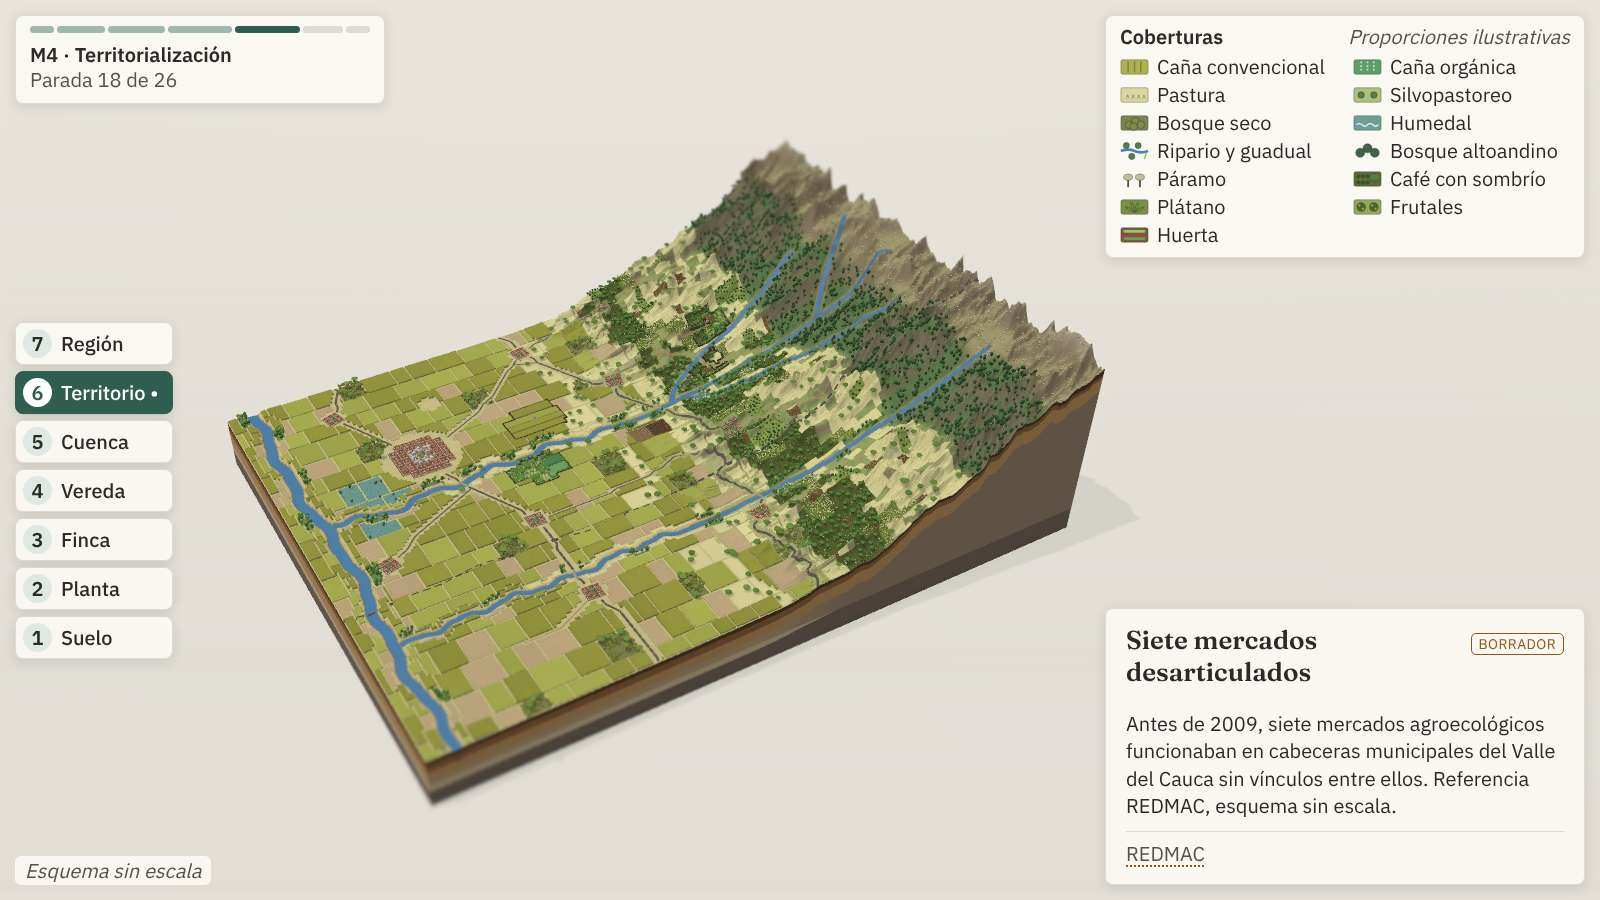
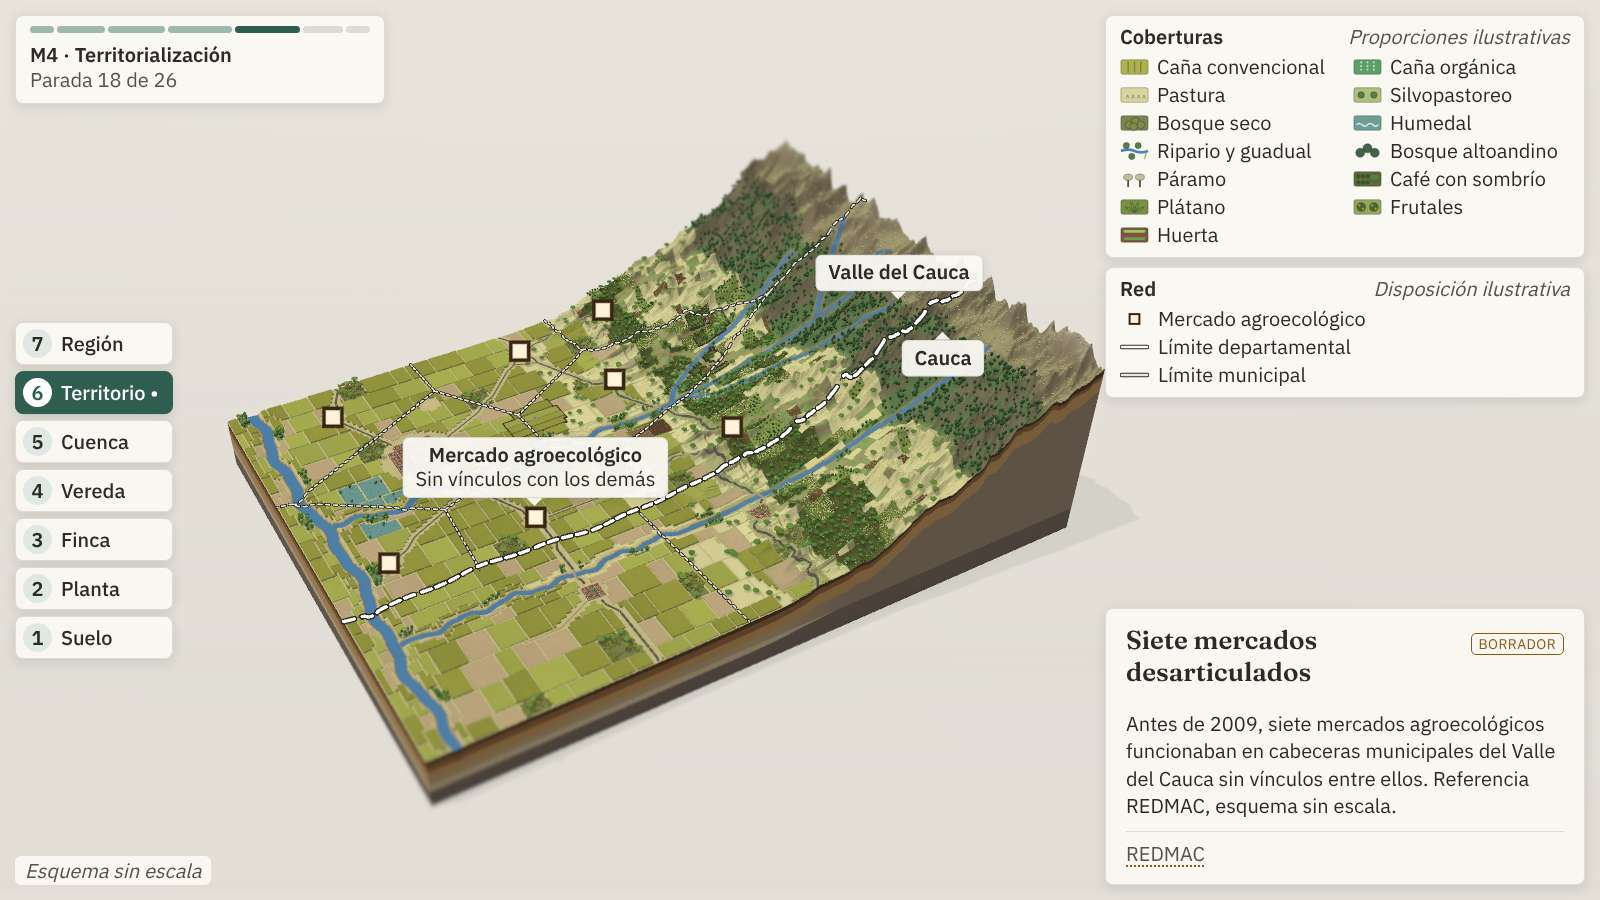
Etapa 9.a: cierre con la verificación correcta, capturas de la red de actores e informe
Claude-Session: https://claude.ai/code/session_01UGZzA8Y7dfPqKqxnyKzmWp

diff --git a/verificacion/informe.md b/verificacion/informe.md
@@ -1,13 +1,13 @@
 # Informe de verificación
 
-- Fecha: 2026-11-15T13:48:59.857Z
+- Fecha: 2026-11-15T14:29:58.785Z
 - Navegador: Chromium 153.0.8010.12
 - Resultado: correcto
 
 ## Vista compilada (servidor de vista previa)
 
 - Dirección: `http://localhost:4317/`
-- Carga: sí, 3059 ms hasta `escenario:listo`
+- Carga: sí, 3010 ms hasta `escenario:listo`
 - Errores de consola: ninguno
 - Solicitudes: 9 en total; externas: ninguna
 - Cuadros por segundo en la vista general: 0.7 (navegador sin pantalla; referencia, no equivale al equipo de la prueba)
@@ -16,16 +16,16 @@
 - Tipografías cargadas (caras): IBM Plex Sans 3/3; Fraunces 2/2
 - Captura: `capturas/general.png` (1600×900)
 - Avisos de consola (no bloquean):
-  - [.WebGL-0x76c00188800]GL Driver Message (OpenGL, Performance, GL_CLOSE_PATH_NV, High): GPU stall due to ReadPixels
-  - [.WebGL-0x76c00188800]GL Driver Message (OpenGL, Performance, GL_CLOSE_PATH_NV, High): GPU stall due to ReadPixels
-  - [.WebGL-0x76c00188800]GL Driver Message (OpenGL, Performance, GL_CLOSE_PATH_NV, High): GPU stall due to ReadPixels
-  - [.WebGL-0x76c00188800]GL Driver Message (OpenGL, Performance, GL_CLOSE_PATH_NV, High): GPU stall due to ReadPixels (this message will no longer repeat)
+  - [.WebGL-0x223c001a4800]GL Driver Message (OpenGL, Performance, GL_CLOSE_PATH_NV, High): GPU stall due to ReadPixels
+  - [.WebGL-0x223c001a4800]GL Driver Message (OpenGL, Performance, GL_CLOSE_PATH_NV, High): GPU stall due to ReadPixels
+  - [.WebGL-0x223c001a4800]GL Driver Message (OpenGL, Performance, GL_CLOSE_PATH_NV, High): GPU stall due to ReadPixels
+  - [.WebGL-0x223c001a4800]GL Driver Message (OpenGL, Performance, GL_CLOSE_PATH_NV, High): GPU stall due to ReadPixels (this message will no longer repeat)
 
 ## Archivo único (file://, sin servidor y sin red)
 
 - Dirección: `file:///home/user/escenario-territorial/dist-unico/index.html`
-- Carga: sí, 8241 ms hasta `escenario:listo`
-- Tamaño: 1072 kB
+- Carga: sí, 8369 ms hasta `escenario:listo`
+- Tamaño: 1089 kB
 - Errores de consola: ninguno
 - Solicitudes: 1 en total; externas: ninguna
 - Llamadas de dibujo: 39; triángulos: 1253518; relación de píxeles: 1
@@ -48,7 +48,7 @@
 
 ## Coberturas
 
-- Unidades: parcelas 863, orillas 178, celdas 290, reservas 12, lotes 25; teselas dibujadas: 1056 unidades, 299880 vértices; generación en 670 ms (unidades y vías 239, asignación 20, teselas 173, vegetación 75, mosaico 94, caña cercana 9)
+- Unidades: parcelas 863, orillas 178, celdas 290, reservas 12, lotes 25; teselas dibujadas: 1056 unidades, 299880 vértices; generación en 685 ms (unidades y vías 242, asignación 24, teselas 173, vegetación 77, mosaico 84, caña cercana 7)
 - Instancias: saman 890 (170 en S0); seco 2682 (734 en S0); ceiba 254 (70 en S0); ribereno 1901 (498 en S0); guadua 563 (147 en S0); andino 1879 (1879 en S0); helecho 420 (420 en S0); frailejon 1308 (1308 en S0); junco 1066 (250 en S0); guamo 519 (449 en S0); cafeto 8944 (7111 en S0); platano 2531 (1473 en S0); citrico 552 (174 en S0); mango 548 (169 en S0); era 1605 (522 en S0); maiz 2271 (733 en S0); leucaena 10412 (551 en S0)
 - S0: caña en el 85 % del plano (mínimo 60 %); relictos 8, aislados 7 (separación de 60 unidades o más), contiguos 0; separación mínima 53.1, mediana 97.2
 - Plano en S0: cana 0.845, ripario 0.018, bosque_seco 0.038, pastura 0.08, humedal 0.019
@@ -57,9 +57,9 @@
 - Plano en S3: cana_organica 0.328, ripario 0.101, bosque_seco 0.129, silvopastoril 0.208, cana 0.112, pastura 0.041, humedal 0.082
 - S1 conserva la extensión de la caña de S0: sí
 - Salto máximo de un elemento por cuadro a 60 cuadros por segundo: 0.0227 (máximo 0.05)
-- Transición a S1 (calidad liviana): 76 elementos; en curso sí; 3 cuadros (intervalo máximo 1.14 s); máximo de elementos a medio camino en un cuadro: 73; 2.09 s (declarada 2 s); final igual a la carga directa: sí; leyenda: 13 tipos
-- Transición a S3 (calidad liviana): 23797 elementos; en curso sí; 3 cuadros (intervalo máximo 1.41 s); máximo de elementos a medio camino en un cuadro: 20585; 2.76 s (declarada 2 s); final igual a la carga directa: sí; leyenda: 13 tipos
-- Transición a S2 (calidad liviana): 19355 elementos; en curso sí; 3 cuadros (intervalo máximo 1.43 s); máximo de elementos a medio camino en un cuadro: 14294; 2.87 s (declarada 2 s); final igual a la carga directa: sí; leyenda: 13 tipos
+- Transición a S1 (calidad liviana): 76 elementos; en curso sí; 3 cuadros (intervalo máximo 0.99 s); máximo de elementos a medio camino en un cuadro: 76; 2.92 s (declarada 2 s); final igual a la carga directa: sí; leyenda: 13 tipos
+- Transición a S3 (calidad liviana): 23797 elementos; en curso sí; 3 cuadros (intervalo máximo 1.51 s); máximo de elementos a medio camino en un cuadro: 19984; 2.88 s (declarada 2 s); final igual a la carga directa: sí; leyenda: 13 tipos
+- Transición a S2 (calidad liviana): 19355 elementos; en curso sí; 3 cuadros (intervalo máximo 1.39 s); máximo de elementos a medio camino en un cuadro: 15173; 2.77 s (declarada 2 s); final igual a la carga directa: sí; leyenda: 13 tipos
 - Leyenda en S0: cana, cana_organica, pastura, silvopastoril, bosque_seco, humedal, ripario, bosque_altoandino, paramo, cafe, platano, frutales, huerta
 - Calidad liviana: 17180 instancias dibujadas en la alta, 8594 en la liviana; restaurado sí
 - Llamadas de dibujo en la vista general: 39 (máximo 200); triángulos 1253518
@@ -146,6 +146,18 @@
 - Presupuesto gráfico, prácticas de conservación: 3300 triángulos (tope 50000) y 8 llamadas de dibujo; 40 partículas; reloj: avanza sí, repite sí
 - Capturas: `capturas/flujos-P08.jpg`, `capturas/flujos-P09-ladera.jpg`, `capturas/sintesis-P12.jpg`
 
+## Actores y red
+
+- Capas de la red apagadas en P01: sí
+- P18 (S0): 7 mercados (CAB1, CAB2, CAB3, CAB4, CAB5, CAB6, CAB7), sin capas de enlaces; con las capas de la red forzadas en S0: 0 enlaces de comercio, 0 de garantía y 0 vértices de polígono
+- P20 (S2): 9 mercados; comercio: 23 enlaces entre 22 nodos, 9 mercados en 1 red, 2 enlaces cruzan el límite departamental; garantía: 9 enlaces entre 13 nodos
+- Polígono de la red: 22 nodos (16 al norte y 6 al sur del límite departamental), 287 vértices (179 al norte y 108 al sur) y 2 cruces con el límite
+- Límites administrativos: 10 municipios esquemáticos (8 al norte y 2 al sur) y 16 lados de límite municipal
+- Rótulos: P18 valle, cauca, mercado_aislado (3 en escena); P20 valle, cauca, territorio_red, universidad, mercados_sur (5 en escena); máximo 7
+- Leyenda: P18 mercado, limite_departamental, limite_municipal; P20 mercado, comercio, familia, garantia, aliado, poligono, limite_departamental, limite_municipal («Disposición ilustrativa»)
+- Presupuesto gráfico por capa (tope 50000 triángulos): P18: limites_administrativos 14280 triángulos y 4 llamadas; mercados 0 triángulos y 1 llamadas. P20: limites_administrativos 14280 triángulos y 4 llamadas; poligono_red 18942 triángulos y 4 llamadas; red_mercados 7728 triángulos y 4 llamadas; spg 3024 triángulos y 5 llamadas; mercados 0 triángulos y 1 llamadas
+- Capturas: `capturas/actores-P18.jpg`, `capturas/actores-P20.jpg`
+
 ## Luz de diorama y legibilidad (1920×1080)
 
 - Efectos: oclusión ambiental sí, miniatura sí (intensidades 1 y 1; MSAA 4), viento sí (reloj quieto en la verificación: sí), sombra sí (PCF, radio 3, intensidad 0.85, mapa 2048)
@@ -172,7 +184,7 @@ Triángulos por cuadro con la cámara quieta (todas las pasadas; la sombra no se
 | Lote (P03, comunidad) | 5,3 M | 1,22 M (23 %) | 3 M | 39 | 1074 | 1222 (3516) | sí |
 | Suelo (P07) | 5,42 M | 1,84 M (34 %) | 3,5 M | 63 | 7359 | 6001 (10699) | sí |
 
-- Ritmo del dibujo: tope de 60 cuadros por segundo en movimiento y 30 con la cámara quieta y viento; con la cámara quieta y el viento detenido, 2 cuadros dibujados en 4,0 s (3 cuadros del navegador)
+- Ritmo del dibujo: tope de 60 cuadros por segundo en movimiento y 30 con la cámara quieta y viento; con la cámara quieta y el viento detenido, 2 cuadros dibujados en 3,9 s (3 cuadros del navegador)
 - Los cuadros por segundo reales se miden en el equipo de la prueba con la tecla R (sin tope mientras el medidor está visible).
 
 ## Calidad
@@ -203,10 +215,10 @@ Triángulos por cuadro con la cámara quieta, llamadas de dibujo y matas de cañ
 ## Ventana de 1920×1080 (vista compilada)
 
 - Dirección: `http://localhost:4317/#p=P01&captura=1`
-- Carga: sí, 8904 ms hasta `escenario:listo`
+- Carga: sí, 2978 ms hasta `escenario:listo`
 - Errores de consola: ninguno
 - Solicitudes: 9 en total; externas: ninguna
-- Llamadas de dibujo: 39; triángulos: 1253518; relación de píxeles: 1
+- Llamadas de dibujo: 55; triángulos: 1925730; relación de píxeles: 1
 - Renderizador WebGL: ANGLE (Google, Vulkan 1.3.0 (SwiftShader Device (Subzero) (0x0000C0DE)), SwiftShader driver)
 - Tipografías cargadas (caras): IBM Plex Sans 3/3; Fraunces 2/2
 - Avisos de consola (no bloquean): ninguno
@@ -214,7 +226,7 @@ Triángulos por cuadro con la cámara quieta, llamadas de dibujo y matas de cañ
 ## Recorrido de paradas (vista compilada)
 
 - Dirección: `http://localhost:4317/#p=P01&captura=1`
-- Carga: sí, 7137 ms hasta `escenario:listo`
+- Carga: sí, 7675 ms hasta `escenario:listo`
 - Errores de consola: ninguno
 - Solicitudes: 9 en total; externas: ninguna
 - Llamadas de dibujo: 39; triángulos: 1253518; relación de píxeles: 1
@@ -225,7 +237,7 @@ Triángulos por cuadro con la cámara quieta, llamadas de dibujo y matas de cañ
 ## Transiciones (vista compilada, sin #captura)
 
 - Dirección: `http://localhost:4317/#p=P05&paso=2`
-- Carga: sí, 3078 ms hasta `escenario:listo`
+- Carga: sí, 2835 ms hasta `escenario:listo`
 - Errores de consola: ninguno
 - Solicitudes: 9 en total; externas: ninguna
 - Llamadas de dibujo: 74; triángulos: 2792858; relación de píxeles: 1
@@ -236,7 +248,7 @@ Triángulos por cuadro con la cámara quieta, llamadas de dibujo y matas de cañ
 ## Ventana de 1280×720 (vista compilada)
 
 - Dirección: `http://localhost:4317/#p=P14&paso=2&captura=1`
-- Carga: sí, 7532 ms hasta `escenario:listo`
+- Carga: sí, 7757 ms hasta `escenario:listo`
 - Errores de consola: ninguno
 - Solicitudes: 9 en total; externas: ninguna
 - Llamadas de dibujo: 39; triángulos: 1253518; relación de píxeles: 1
@@ -252,7 +264,7 @@ Triángulos por cuadro con la cámara quieta, llamadas de dibujo y matas de cañ
 - Teclas: 0 a 6 sí; O sí; H sí; V sí
 - Tecla C: sí, `"camara": { "ancla": "F2", "distancia": 640, "azimut": -47, "elevacion": 33, "duracion": 2.5 }`; desvío al aplicarlo 0
 - Botonera: sí; clic en una finca: sí
-- Transiciones en la calidad liviana: entre paradas declarada 2.5 s, medida 2.88 s (intervalo máximo entre cuadros 0.67 s); botonera declarada 2 s, medida 2.02 s (intervalo máximo entre cuadros 0.9 s); doble clic en modo libre declarada 1.6 s, medida 2.09 s (intervalo máximo entre cuadros 1.13 s); correctas sí
+- Transiciones en la calidad liviana: entre paradas declarada 2.5 s, medida 2.97 s (intervalo máximo entre cuadros 0.65 s); botonera declarada 2 s, medida 2.45 s (intervalo máximo entre cuadros 1.15 s); doble clic en modo libre declarada 1.6 s, medida 2.16 s (intervalo máximo entre cuadros 1.18 s); correctas sí
 - Modo libre: correcto sí; captura `capturas/libre.jpg`
   - Doble clic: en el recorrido sin efecto sí; fuera de la maqueta sin efecto sí; vuelo al punto sí (error 1.1, distancias 2500 → 1250 → 625, duración 1.5 s)
   - Marcha con W: 328.1 unidades, dirección 1, salto 0.26, detenida sí, cámara a 389.1 o más sobre el relieve, dentro sí
@@ -267,7 +279,7 @@ Triángulos por cuadro con la cámara quieta, llamadas de dibujo y matas de cañ
 ## Vista del presentador (dos pestañas del mismo navegador)
 
 - Dirección: `http://localhost:4317/presentador.html`
-- Conexión con la vista principal: sí, 1969 ms
+- Conexión con la vista principal: sí, 102 ms
 - Pruebas de sincronía y cronómetro: 23 de 23 correctas
   - sí: estado inicial P01 en las dos vistas
   - sí: botón Siguiente del presentador mueve la principal a P02
@@ -301,7 +313,7 @@ Triángulos por cuadro con la cámara quieta, llamadas de dibujo y matas de cañ
 ## Respaldo en imágenes (file://, sin servidor y sin red)
 
 - Dirección: `respaldo/index.html`
-- Carga: sí, 61 ms
+- Carga: sí, 51 ms
 - Imágenes: 39 de 39 cargan (1920×1080); estados del recorrido: 39
 - Teclado (flechas, Fin, tecla 3, hash): sí
 - Contenido igual al de la generación: sí
@@ -327,4 +339,4 @@ Triángulos por cuadro con la cámara quieta, llamadas de dibujo y matas de cañ
   - redmac (falta)
   - ley2294 (falta)
   - al012023 (falta)
-- Pendientes de fuente: 67 localizadores y 19 datos (`pendientes-de-fuente.md`)
+- Pendientes de fuente: 68 localizadores y 21 datos (`pendientes-de-fuente.md`)
